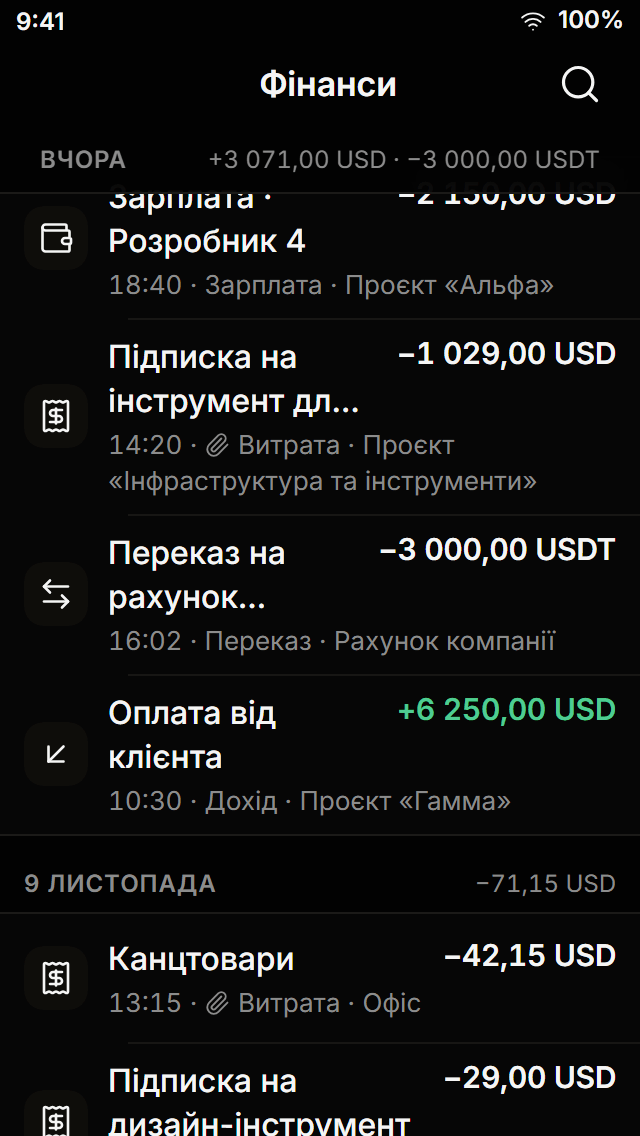
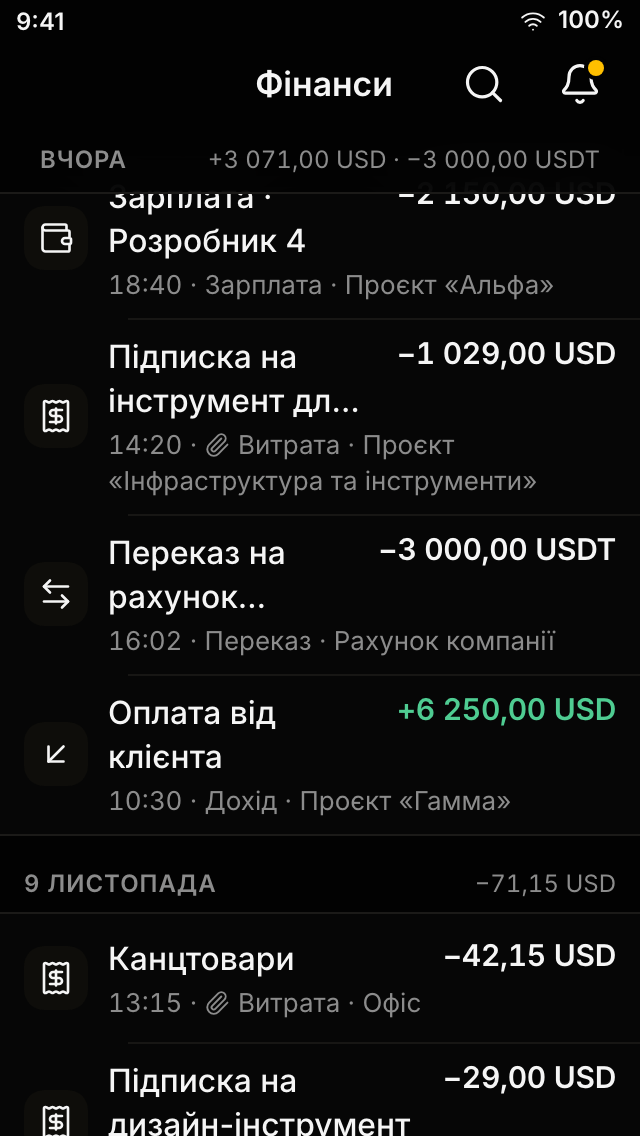
wip: docs(design): r4 rail overflow modality, magnifier rule, account-menu map row, PWA edge-swipe exception, search result states

diff --git a/docs/design/screens/_foundation/primitives-v2.md b/docs/design/screens/_foundation/primitives-v2.md
@@ -21,37 +21,37 @@
 
 ## 1. Component map
 
-| Primitive                               | Build on                                                                                                      | New?                                      | Frames                                                                                                                                                                                                                                                                                                                                                                                                                                                                                           |
-| --------------------------------------- | ------------------------------------------------------------------------------------------------------------- | ----------------------------------------- | ------------------------------------------------------------------------------------------------------------------------------------------------------------------------------------------------------------------------------------------------------------------------------------------------------------------------------------------------------------------------------------------------------------------------------------------------------------------------------------------------ |
-| Bottom sheet (detents)                  | Base UI Drawer (approved stack change, spec §4)                                                               | NEW `Sheet` mobile variant                | `sheet-medium-375`, `sheet-medium-320`, `sheet-large-375`                                                                                                                                                                                                                                                                                                                                                                                                                                        |
-| Action sheet (confirm)                  | Base UI Drawer + `ui/alert-dialog.tsx` semantics                                                              | NEW variant                               | `sheet-confirm-375`                                                                                                                                                                                                                                                                                                                                                                                                                                                                              |
-| PickerSheet                             | Base UI Drawer + `ui/command.tsx` (search, listbox); replaces `ui/select.tsx` / `ui/role-select.tsx` on touch | NEW variant                               | `picker-sheet-375`; ≥ 640 the popover / combobox below                                                                                                                                                                                                                                                                                                                                                                                                                                           |
-| TextEditor                              | `ui/textarea.tsx` (autosize) + a chip row on `visualViewport`                                                 | NEW composite                             | `form-longtext-375`                                                                                                                                                                                                                                                                                                                                                                                                                                                                              |
-| Side panel                              | `ui/sheet.tsx` (side = right)                                                                                 | restyle                                   | `sheet-panel-768`, `sheet-panel-1024`, `sheet-panel-1440`, `sheet-panel-1920`                                                                                                                                                                                                                                                                                                                                                                                                                    |
-| Confirm dialog                          | `ui/alert-dialog.tsx`                                                                                         | restyle                                   | `sheet-confirm-dialog-768`, `sheet-confirm-dialog-1024`                                                                                                                                                                                                                                                                                                                                                                                                                                          |
-| List row                                | —                                                                                                             | NEW `ListRow`                             | `listrow-variants-375`, `listrow-swipe-375`, `listrow-sticky-320`, `listrow-empty-error-375`, `listrow-768`, `listrow-1440`, `list-footer-320`, `list-footer-375`, `list-footer-768`, `list-footer-1440`, `search-paged-375`                                                                                                                                                                                                                                                                     |
-| Section header                          | —                                                                                                             | NEW `ListSection`                         | `section-header-375`                                                                                                                                                                                                                                                                                                                                                                                                                                                                             |
-| Pushed detail page                      | —                                                                                                             | NEW `DetailPage`                          | `detail-txn-375`, `detail-person-375`, `detail-readonly-1000`                                                                                                                                                                                                                                                                                                                                                                                                                                    |
-| Receipt viewer                          | Base UI Dialog (full screen)                                                                                  | NEW                                       | `detail-txn-receipt-375`                                                                                                                                                                                                                                                                                                                                                                                                                                                                         |
-| Table row states                        | `ui/table.tsx`                                                                                                | restyle                                   | `listrow-table-desktop`                                                                                                                                                                                                                                                                                                                                                                                                                                                                          |
-| Board                                   | the existing dnd-kit board (`interviews/components/KanbanColumn.tsx`) + PickerSheet                           | restyle + NEW stage picker                | `board-1440`, `board-768`, `board-stage-sheet-375`, `board-undo-375`, `board-hire-confirm-375`                                                                                                                                                                                                                                                                                                                                                                                                   |
-| Form field                              | `ui/input.tsx`, `ui/label.tsx`                                                                                | restyle (16 px, 48 h mobile)              | `form-states-375`, `form-add-user-375`, `formfield-error-320`, `formfield-768`, `formfield-1440`                                                                                                                                                                                                                                                                                                                                                                                                 |
-| Money field + receipt                   | `ui/amount-currency-input.tsx`, `ui/image-upload-field.tsx`                                                   | restyle                                   | `form-money-375`, `form-receipt-link-375`, `form-receipt-usdt-375`, `form-receipt-usdt-empty-375`, `form-receipt-usdt-file-375`, `form-receipt-failed-375`, `form-keyboard-375`, `sheet-large-375` (one canonical form: `assets/src/money-form.mjs`)                                                                                                                                                                                                                                             |
-| Segmented control, switch               | `ui/segmented-toggle.tsx`, `ui/switch.tsx`                                                                    | restyle                                   | `form-money-375`, `sheet-medium-375`                                                                                                                                                                                                                                                                                                                                                                                                                                                             |
-| Undo toast                              | `ui/sonner.tsx`                                                                                               | restyle                                   | `toast-undo-320`, `toast-undo-375`, `toast-undo-768`, `toast-undo-1440`                                                                                                                                                                                                                                                                                                                                                                                                                          |
-| Save error (inline)                     | `ui/alert.tsx`                                                                                                | restyle                                   | `save-failure-definite-375`, `save-failure-offline-375`, `save-failure-unknown-375`, `save-failure-unknown-list-375`, `save-failure-unknown-match-375`, `save-failure-unknown-empty-375`, `save-failure-unknown-refetch-failed-375`, `alert-pagekill-failed-375`, `save-failure-unknown-768`, `check-dialog-768`, `check-dialog-1024`                                                                                                                                                            |
-| Upload states + indicator               | `ui/upload-progress.tsx`                                                                                      | restyle + global pill (NEW)               | `upload-states-375`, `upload-pill-armed-375`, `upload-pill-saved-375`, `upload-pill-failed-375`, `upload-pill-multi-375`, `upload-pill-inflight-375`, `upload-pill-unknown-375`, `quick-add-drafts-375`, `drafts-desktop-1440`, `drafts-two-375`, `drafts-two-unresolved-375`, `toast-pill-stack-375`, `state-page-kill-375`, `alert-pagekill-sent-375`, `confirm-recreate-375`, `confirm-discard-draft-375`, `listrow-draft-375`, `upload-pill-768`, `upload-pill-1440`, `unresolved-draft-768` |
-| Skeletons                               | `ui/skeleton.tsx`                                                                                             | restyle                                   | `skeleton-mobile-375`, `skeleton-768`, `skeleton-1440`, `skeleton-table-desktop`                                                                                                                                                                                                                                                                                                                                                                                                                 |
-| Charts                                  | the existing chart library on `--chart-*` tokens                                                              | restyle                                   | `chart-mobile-375`, `chart-mobile-scrolled-375`, `chart-mobile-320`, `chart-768`, `chart-desktop`                                                                                                                                                                                                                                                                                                                                                                                                |
-| Picker ≥ 640 (listbox / combobox)       | `ui/popover.tsx` + `ui/command.tsx`                                                                           | NEW `Picker` container                    | `picker-popover-768`, `picker-combobox-1440`                                                                                                                                                                                                                                                                                                                                                                                                                                                     |
-| DateField + calendar                    | `ui/calendar.tsx` in `ui/popover.tsx`; Base UI Drawer on the phone                                            | NEW `DateField`                           | `datepicker-sheet-375`, `datepicker-popover-768`, `datepicker-popover-1440`, `datepicker-popover-touch-1180`                                                                                                                                                                                                                                                                                                                                                                                     |
-| Banner stack                            | —                                                                                                             | NEW `BannerStack`                         | `banner-stack-375`, `banner-stack-768`, `banner-stack-1440`                                                                                                                                                                                                                                                                                                                                                                                                                                      |
-| System states (empty / error / session) | `ui/alert-dialog.tsx` for the session alert                                                                   | NEW `StateBlock`                          | `state-empty-768`, `state-error-768`, `state-empty-1440`, `state-error-1440`, `state-empty-readonly-375`, `alert-session-expired-768`, `alert-session-expired-1440`                                                                                                                                                                                                                                                                                                                              |
-| Row menu ≥ 640                          | `ui/dropdown-menu.tsx`                                                                                        | restyle                                   | `row-menu-768`, `row-menu-1440`                                                                                                                                                                                                                                                                                                                                                                                                                                                                  |
-| Account menu                            | Профіль · Вийти з акаунта · {name}. Меню профілю                                                              | Profile · Sign out · {name}. Profile menu |
-| Dirty-close confirm                     | `actionConfirm` (action sheet)                                                                                | —                                         | `sheet-dirty-close-375`                                                                                                                                                                                                                                                                                                                                                                                                                                                                          |
-| Pull-to-refresh                         | —                                                                                                             | NEW `PullToRefresh`                       | `ptr-pulling-375`, `ptr-armed-375`, `ptr-refreshing-375`, `ptr-done-375`                                                                                                                                                                                                                                                                                                                                                                                                                         |
-| Transitions                             | View Transitions API + `motion` (`m.*`, LazyMotion)                                                           | NEW                                       | `transition-storyboard`                                                                                                                                                                                                                                                                                                                                                                                                                                                                          |
+| Primitive                               | Build on                                                                                                      | New?                         | Frames                                                                                                                                                                                                                                                                                                                                                                                                                                                                                           |
+| --------------------------------------- | ------------------------------------------------------------------------------------------------------------- | ---------------------------- | ------------------------------------------------------------------------------------------------------------------------------------------------------------------------------------------------------------------------------------------------------------------------------------------------------------------------------------------------------------------------------------------------------------------------------------------------------------------------------------------------ |
+| Bottom sheet (detents)                  | Base UI Drawer (approved stack change, spec §4)                                                               | NEW `Sheet` mobile variant   | `sheet-medium-375`, `sheet-medium-320`, `sheet-large-375`                                                                                                                                                                                                                                                                                                                                                                                                                                        |
+| Action sheet (confirm)                  | Base UI Drawer + `ui/alert-dialog.tsx` semantics                                                              | NEW variant                  | `sheet-confirm-375`                                                                                                                                                                                                                                                                                                                                                                                                                                                                              |
+| PickerSheet                             | Base UI Drawer + `ui/command.tsx` (search, listbox); replaces `ui/select.tsx` / `ui/role-select.tsx` on touch | NEW variant                  | `picker-sheet-375`; ≥ 640 the popover / combobox below                                                                                                                                                                                                                                                                                                                                                                                                                                           |
+| TextEditor                              | `ui/textarea.tsx` (autosize) + a chip row on `visualViewport`                                                 | NEW composite                | `form-longtext-375`                                                                                                                                                                                                                                                                                                                                                                                                                                                                              |
+| Side panel                              | `ui/sheet.tsx` (side = right)                                                                                 | restyle                      | `sheet-panel-768`, `sheet-panel-1024`, `sheet-panel-1440`, `sheet-panel-1920`                                                                                                                                                                                                                                                                                                                                                                                                                    |
+| Confirm dialog                          | `ui/alert-dialog.tsx`                                                                                         | restyle                      | `sheet-confirm-dialog-768`, `sheet-confirm-dialog-1024`                                                                                                                                                                                                                                                                                                                                                                                                                                          |
+| List row                                | —                                                                                                             | NEW `ListRow`                | `listrow-variants-375`, `listrow-swipe-375`, `listrow-sticky-320`, `listrow-empty-error-375`, `listrow-768`, `listrow-1440`, `list-footer-320`, `list-footer-375`, `list-footer-768`, `list-footer-1440`, `search-paged-375`                                                                                                                                                                                                                                                                     |
+| Section header                          | —                                                                                                             | NEW `ListSection`            | `section-header-375`                                                                                                                                                                                                                                                                                                                                                                                                                                                                             |
+| Pushed detail page                      | —                                                                                                             | NEW `DetailPage`             | `detail-txn-375`, `detail-person-375`, `detail-readonly-1000`                                                                                                                                                                                                                                                                                                                                                                                                                                    |
+| Receipt viewer                          | Base UI Dialog (full screen)                                                                                  | NEW                          | `detail-txn-receipt-375`                                                                                                                                                                                                                                                                                                                                                                                                                                                                         |
+| Table row states                        | `ui/table.tsx`                                                                                                | restyle                      | `listrow-table-desktop`                                                                                                                                                                                                                                                                                                                                                                                                                                                                          |
+| Board                                   | the existing dnd-kit board (`interviews/components/KanbanColumn.tsx`) + PickerSheet                           | restyle + NEW stage picker   | `board-1440`, `board-768`, `board-stage-sheet-375`, `board-undo-375`, `board-hire-confirm-375`                                                                                                                                                                                                                                                                                                                                                                                                   |
+| Form field                              | `ui/input.tsx`, `ui/label.tsx`                                                                                | restyle (16 px, 48 h mobile) | `form-states-375`, `form-add-user-375`, `formfield-error-320`, `formfield-768`, `formfield-1440`                                                                                                                                                                                                                                                                                                                                                                                                 |
+| Money field + receipt                   | `ui/amount-currency-input.tsx`, `ui/image-upload-field.tsx`                                                   | restyle                      | `form-money-375`, `form-receipt-link-375`, `form-receipt-usdt-375`, `form-receipt-usdt-empty-375`, `form-receipt-usdt-file-375`, `form-receipt-failed-375`, `form-keyboard-375`, `sheet-large-375` (one canonical form: `assets/src/money-form.mjs`)                                                                                                                                                                                                                                             |
+| Segmented control, switch               | `ui/segmented-toggle.tsx`, `ui/switch.tsx`                                                                    | restyle                      | `form-money-375`, `sheet-medium-375`                                                                                                                                                                                                                                                                                                                                                                                                                                                             |
+| Undo toast                              | `ui/sonner.tsx`                                                                                               | restyle                      | `toast-undo-320`, `toast-undo-375`, `toast-undo-768`, `toast-undo-1440`                                                                                                                                                                                                                                                                                                                                                                                                                          |
+| Save error (inline)                     | `ui/alert.tsx`                                                                                                | restyle                      | `save-failure-definite-375`, `save-failure-offline-375`, `save-failure-unknown-375`, `save-failure-unknown-list-375`, `save-failure-unknown-match-375`, `save-failure-unknown-empty-375`, `save-failure-unknown-refetch-failed-375`, `alert-pagekill-failed-375`, `save-failure-unknown-768`, `check-dialog-768`, `check-dialog-1024`                                                                                                                                                            |
+| Upload states + indicator               | `ui/upload-progress.tsx`                                                                                      | restyle + global pill (NEW)  | `upload-states-375`, `upload-pill-armed-375`, `upload-pill-saved-375`, `upload-pill-failed-375`, `upload-pill-multi-375`, `upload-pill-inflight-375`, `upload-pill-unknown-375`, `quick-add-drafts-375`, `drafts-desktop-1440`, `drafts-two-375`, `drafts-two-unresolved-375`, `toast-pill-stack-375`, `state-page-kill-375`, `alert-pagekill-sent-375`, `confirm-recreate-375`, `confirm-discard-draft-375`, `listrow-draft-375`, `upload-pill-768`, `upload-pill-1440`, `unresolved-draft-768` |
+| Skeletons                               | `ui/skeleton.tsx`                                                                                             | restyle                      | `skeleton-mobile-375`, `skeleton-768`, `skeleton-1440`, `skeleton-table-desktop`                                                                                                                                                                                                                                                                                                                                                                                                                 |
+| Charts                                  | the existing chart library on `--chart-*` tokens                                                              | restyle                      | `chart-mobile-375`, `chart-mobile-scrolled-375`, `chart-mobile-320`, `chart-768`, `chart-desktop`                                                                                                                                                                                                                                                                                                                                                                                                |
+| Picker ≥ 640 (listbox / combobox)       | `ui/popover.tsx` + `ui/command.tsx`                                                                           | NEW `Picker` container       | `picker-popover-768`, `picker-combobox-1440`                                                                                                                                                                                                                                                                                                                                                                                                                                                     |
+| DateField + calendar                    | `ui/calendar.tsx` in `ui/popover.tsx`; Base UI Drawer on the phone                                            | NEW `DateField`              | `datepicker-sheet-375`, `datepicker-popover-768`, `datepicker-popover-1440`, `datepicker-popover-touch-1180`                                                                                                                                                                                                                                                                                                                                                                                     |
+| Banner stack                            | —                                                                                                             | NEW `BannerStack`            | `banner-stack-375`, `banner-stack-768`, `banner-stack-1440`                                                                                                                                                                                                                                                                                                                                                                                                                                      |
+| System states (empty / error / session) | `ui/alert-dialog.tsx` for the session alert                                                                   | NEW `StateBlock`             | `state-empty-768`, `state-error-768`, `state-empty-1440`, `state-error-1440`, `state-empty-readonly-375`, `alert-session-expired-768`, `alert-session-expired-1440`                                                                                                                                                                                                                                                                                                                              |
+| Row menu ≥ 640                          | `ui/dropdown-menu.tsx`                                                                                        | restyle                      | `row-menu-768`, `row-menu-1440`                                                                                                                                                                                                                                                                                                                                                                                                                                                                  |
+| Account menu                            | `ui/dropdown-menu.tsx` (the avatar trigger in the sidebar / rail; R3-27)                                      | restyle                      | `account-menu-768`, `account-menu-1440`                                                                                                                                                                                                                                                                                                                                                                                                                                                          |
+| Dirty-close confirm                     | `actionConfirm` (action sheet)                                                                                | —                            | `sheet-dirty-close-375`                                                                                                                                                                                                                                                                                                                                                                                                                                                                          |
+| Pull-to-refresh                         | —                                                                                                             | NEW `PullToRefresh`          | `ptr-pulling-375`, `ptr-armed-375`, `ptr-refreshing-375`, `ptr-done-375`                                                                                                                                                                                                                                                                                                                                                                                                                         |
+| Transitions                             | View Transitions API + `motion` (`m.*`, LazyMotion)                                                           | NEW                          | `transition-storyboard`                                                                                                                                                                                                                                                                                                                                                                                                                                                                          |
 
 ---
 
@@ -140,7 +140,7 @@ group «Повторити», this one re-reads data only. The error copy wraps 
 After an error only «Повторити» retries; scrolling does not.
 
 **Search on a paged list** (`search-paged-375`): while more pages exist, a search filters only what is
-loaded, so it says what it covered. The results end with «Шукали серед завантажених, з 9.11 · Шукати далі» (the oldest loaded date; «з» reads as "since", where «до» would read as "before"); with no results the same line replaces the plain empty text. **While a search is active, auto-load is off**: reaching the end loads nothing by itself. «Шукати далі» loads pages until the first new match or 5 pages, whichever comes first, then the line updates its date; the button keeps its place, so another tap goes on. **States:** while it runs, the button shows a spinner and is `aria-disabled`; the result is one `role="status"` line, «Знайдено ще N» or «Нових збігів немає · шукали з 2.11»; a failure reuses the list-footer error row (above). The line goes away once the last page is loaded, and editing the query cancels the run. Where the list API accepts a search parameter, the search goes to the server and the line
+loaded, so it says what it covered. The results end with «Шукали серед завантажених, з 9.11 · Шукати далі» (the oldest loaded date; «з» reads as "since", where «до» would read as "before"); with no results the same line replaces the plain empty text. **While a search is active, auto-load is off**: reaching the end loads nothing by itself. «Шукати далі» loads pages until the first new match or 5 pages, whichever comes first, then the line updates its date; the button keeps its place, so another tap goes on. **States:** while it runs, the button shows a spinner and is `aria-disabled`; the result is one `role="status"` line, «Знайдено ще N» or «Нових збігів немає · шукали з 2.11»; a failure reuses the list-footer error row (above) (`search-paged-states-375`). **≥ 640 (R3-29):** the same line and button sit at the end of the list pane on a tablet (44 px button, `list-footer-768`) and as the last row of the desktop table (36 px button under a fine pointer); the date always follows «з» with a no-break space. The line goes away once the last page is loaded, and editing the query cancels the run. Where the list API accepts a search parameter, the search goes to the server and the line
 never appears (foundation §11 Wave 1 AC).
 
 **Swipe actions** (`listrow-swipe-375`): trailing edge only (no leading swipe: it collides with system

diff --git a/docs/design/screens/_foundation/shell-v2.md b/docs/design/screens/_foundation/shell-v2.md
@@ -66,7 +66,10 @@ tab bar holds **4 destinations + «Ще»**. «Ще» holds everything else, gro
 ### Top bar
 
 - Tab root: large title 28/34 that collapses into a 44 px inline bar on scroll; bell (and search where the
-  screen has it) on the right.
+  screen has it) on the right. **Magnifier (R3-22):** on a screen with an inline search field the bar
+  carries the magnifier at rest and collapsed, always left of the bell (the bell never leaves the bar); a
+  tap scrolls the list to the top and focuses the inline field, so it is a shortcut to that one field, never
+  a second search (`listrow-sticky-320`, `ptr-pulling-375`).
 - Pushed screen: 44 px bar, back chevron (44 × 44 `<button>`, `aria-label="Назад"`) + a 17/22 title
   **centred on the bar, not on the space left over** (iOS): the title is absolutely positioned and
   inset on both sides by the wider side, the back button or the trailing actions (`--topbar-side`,
@@ -222,8 +225,9 @@ tab bar holds **4 destinations + «Ще»**. «Ще» holds everything else, gro
   show only when the viewer may edit the record; a read-only viewer sees the status line «Лише перегляд»
   in their place (`primitives-v2/detail-readonly-1000`, JUNIOR).
 - **Row actions:** every list row at ≥ 640 has the «…» trigger in its reserved trailing slot, 44 px under touch; the rule, the slot and the menu position are primitives-v2 §12 «Row actions and the «…» trigger» (`primitives-v2/row-menu-768`). A swipe is a phone-only shortcut.
-- **Key hints** (Esc, ⌘↵, letters) never show on the touch tablet (F0-04); the rail «Ще» popover closes
-  on an outside tap or on «Ще» again, and focus returns to «Ще».
+- **Key hints** (Esc, ⌘↵, letters) never show on the touch tablet (F0-04); the rail «Ще» overflow (R3-21) is a modal `role="dialog"` «Ще» with a 44 px ✕ over a `--scrim` that
+  dims the page and the rail but not «Ще» itself (`tablet-rail-more-768`); focus moves to its first row
+  and is trapped; ✕, a scrim tap, «Ще» again, Esc and system back close it, and focus returns to «Ще».
 
 ---
 

diff --git a/docs/design/foundation.md b/docs/design/foundation.md
@@ -62,7 +62,10 @@ Rules that hold in every class:
 - **Sidebar / More groups:** Огляд · Гроші · Люди · Робота · Найм · Система (new headings, copy-reviewer
   gate in the Wave 0 implementation).
 - **Standalone PWA has no browser back.** Every pushed screen shows an in-app back control (44 px).
-- **No left-edge swipe gesture** of our own (it collides with the system back gesture). Swipe actions on
+- **No left-edge swipe gesture** of our own where the system has one (it collides with the system back
+  gesture). **The one exception (R3-28):** the installed standalone PWA on iOS, which has no system back
+  gesture: there a pushed page gets the app's own edge-swipe back (the storyboard «Назад» row), from the
+  left 20 px only and never on a tab root; in a browser tab and on Android it is off. Swipe actions on
   list rows come from the trailing edge only.
 
 ---
